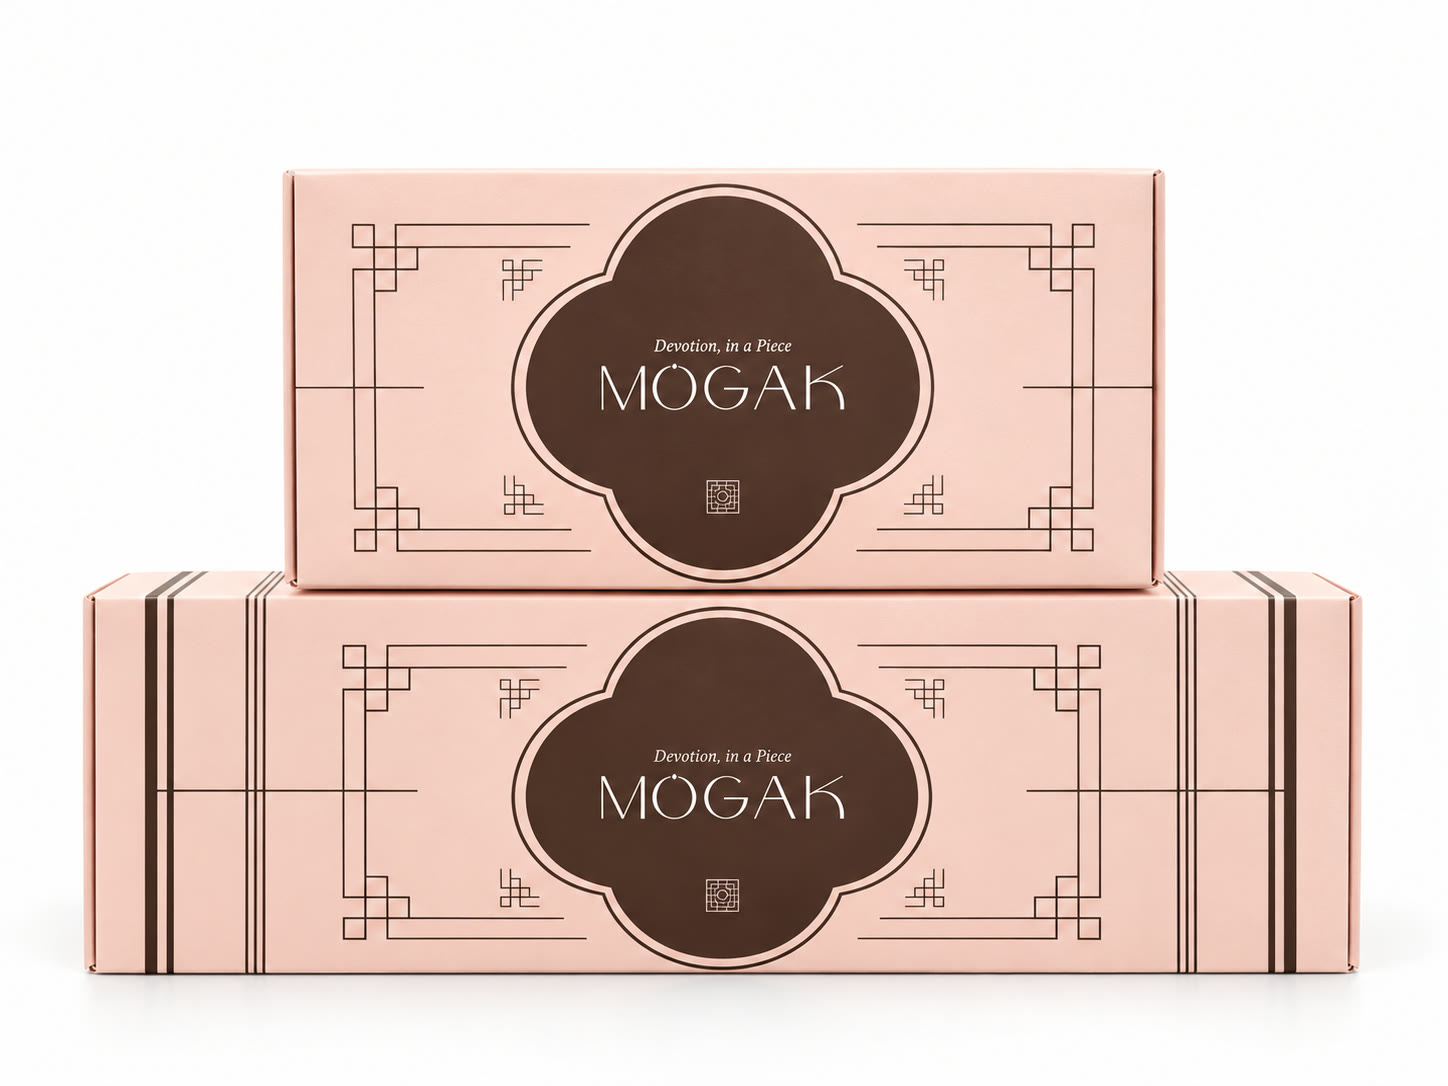
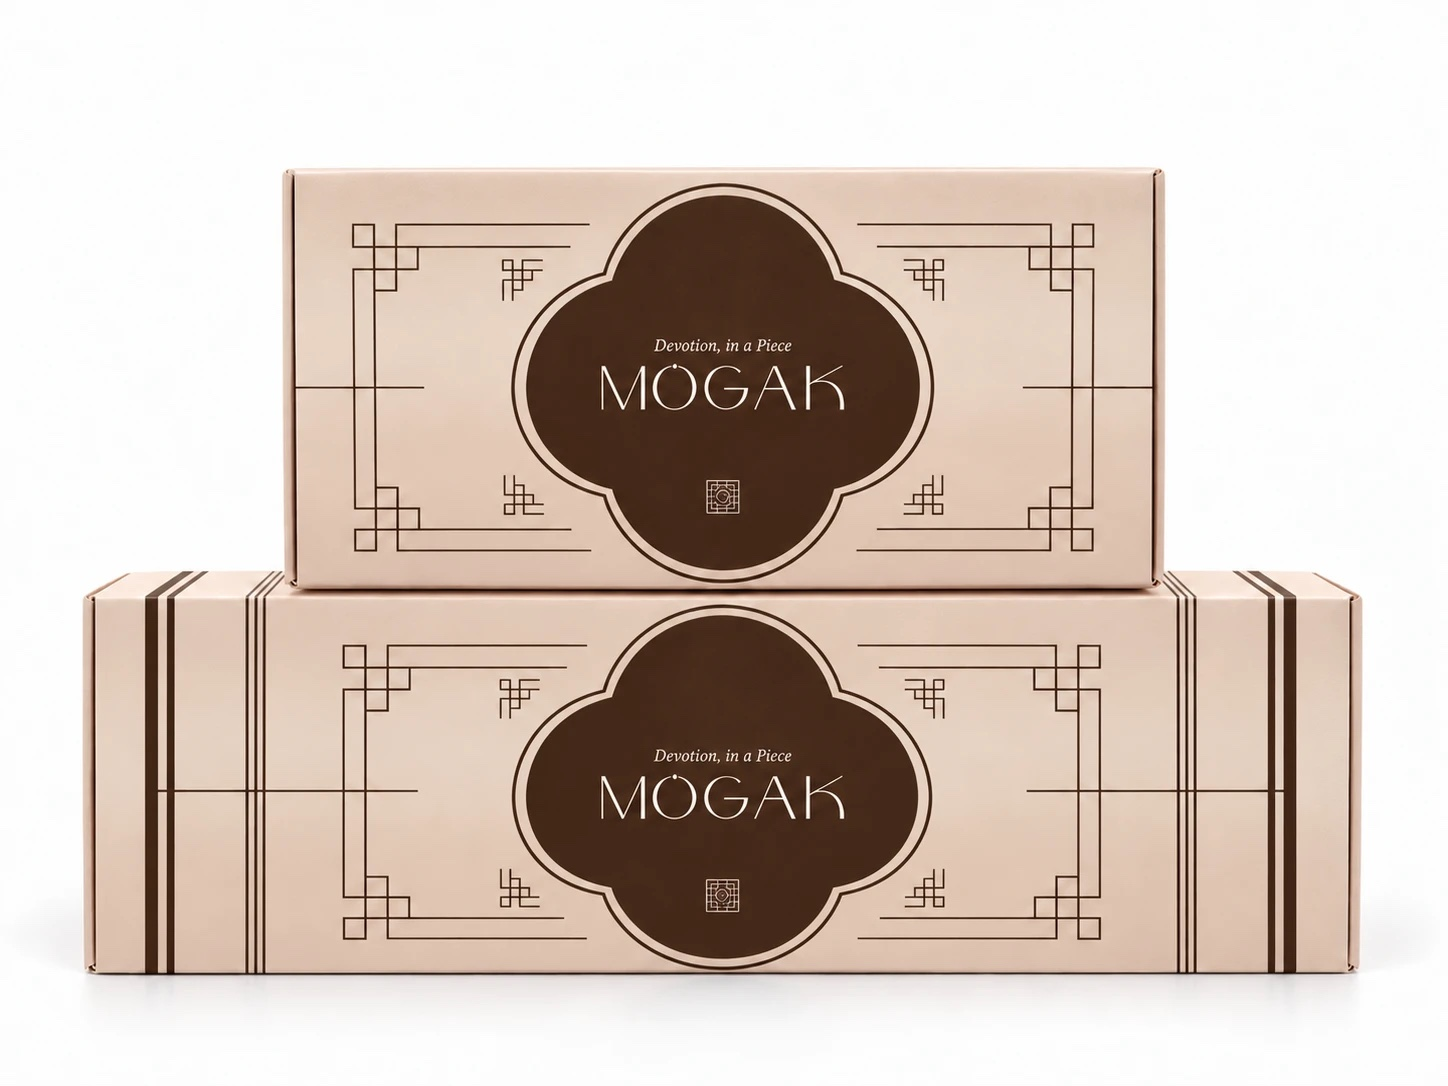
MOGAK: update box photography

diff --git a/work/mogak.html b/work/mogak.html
@@ -101,12 +101,12 @@
           <p><b>노방 보자기와 박스 패키지</b>로 건네는 순간을 설계했습니다. 박스는 <b>꽃살 창 모양 라벨과 문살 프레임</b>으로 열기 전부터 문을 여는 경험을 만들고, 안쪽 뚜껑에는 즐기는 법과 보관 안내를 담았습니다. 보자기 택에는 인장을 두고, 함께 들어가는 안내 리플렛에는 <b>구성 · 보관법 · 즐기는 법</b>을 문살 프레임 안에 정리했습니다.</p>
         </div>
         <div class="mg-pack">
-          <img class="mg-pack__hero" src="../assets/work/mogak/box/box-2.jpg" alt="모각 박스 정면 — 꽃살 창 모양 라벨과 문살 프레임" loading="lazy">
-          <img src="../assets/work/mogak/box/box-1.jpg" alt="크기가 다른 모각 박스 두 종" loading="lazy">
-          <img src="../assets/work/mogak/box/box-3.jpg" alt="비스듬히 놓인 모각 박스" loading="lazy">
-          <img src="../assets/work/mogak/box/box-4.jpg" alt="쌓아 올린 모각 박스 두 종" loading="lazy">
-          <img src="../assets/work/mogak/box/box-5.jpg" alt="모각 박스 옆면 띠와 문살 패턴 디테일" loading="lazy">
-          <img src="../assets/work/mogak/box/box-6.jpg" alt="열린 모각 박스 안쪽 — 즐기는 법과 보관 안내" loading="lazy">
+          <img class="mg-pack__hero" src="../assets/work/mogak/box/box-2.jpg?v=2" alt="모각 박스 정면 — 꽃살 창 모양 라벨과 문살 프레임" loading="lazy">
+          <img src="../assets/work/mogak/box/box-1.jpg?v=2" alt="크기가 다른 모각 박스 두 종" loading="lazy">
+          <img src="../assets/work/mogak/box/box-3.jpg?v=2" alt="비스듬히 놓인 모각 박스" loading="lazy">
+          <img src="../assets/work/mogak/box/box-4.jpg?v=2" alt="쌓아 올린 모각 박스 두 종" loading="lazy">
+          <img src="../assets/work/mogak/box/box-5.jpg?v=2" alt="모각 박스 옆면 띠와 문살 패턴 디테일" loading="lazy">
+          <img src="../assets/work/mogak/box/box-6.jpg?v=2" alt="열린 모각 박스 안쪽 — 즐기는 법과 보관 안내" loading="lazy">
           <img src="../assets/work/mogak/leaflet.jpg" alt="모각 안내 리플렛" loading="lazy">
           <img src="../assets/work/mogak/detail/pk-gift.jpg" alt="노방 보자기와 박스 포장 장면" loading="lazy">
           <img src="../assets/work/mogak/detail/pk-box.jpg" alt="브라운 박스와 보자기 세트" loading="lazy">
